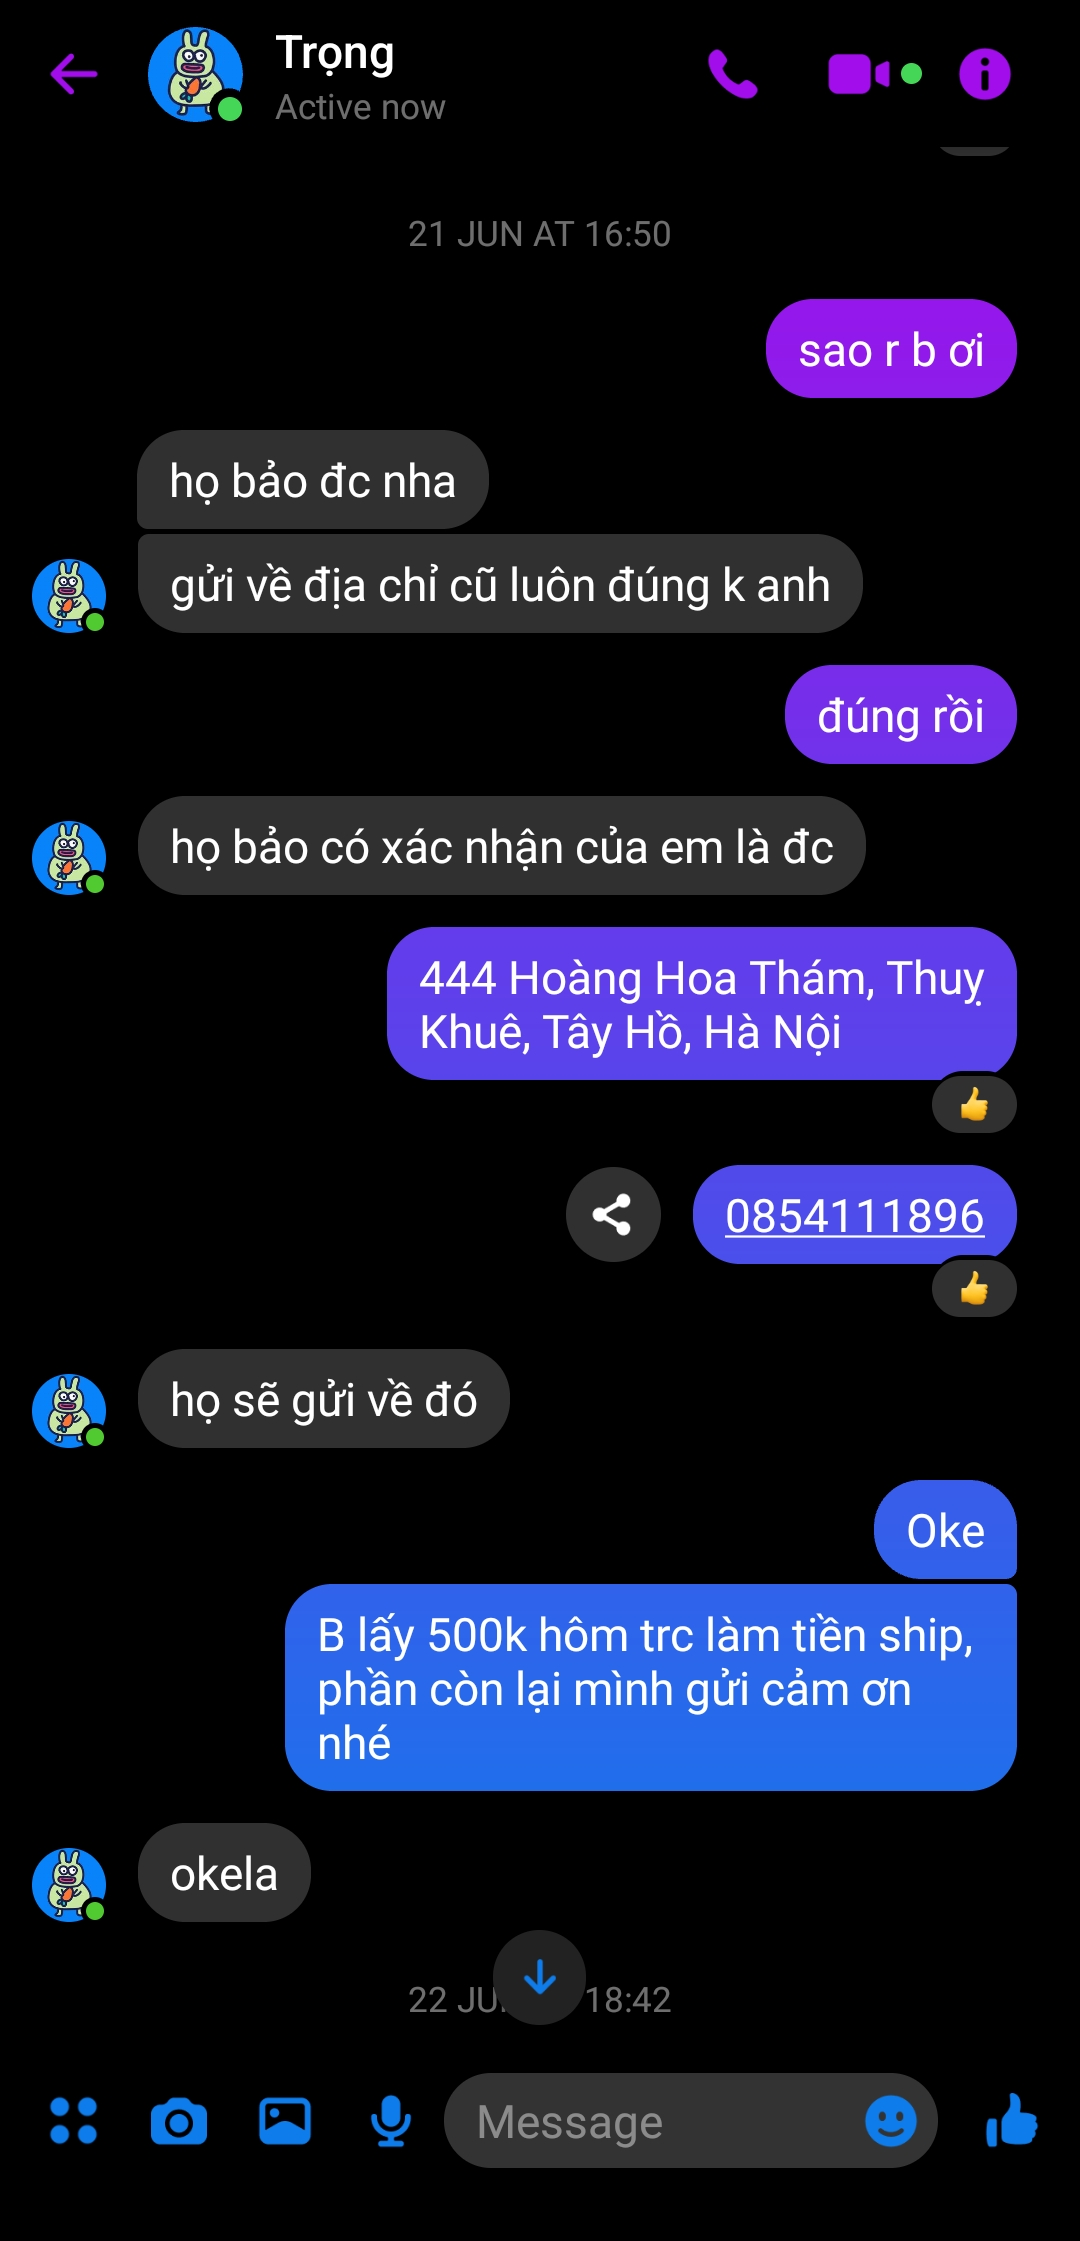
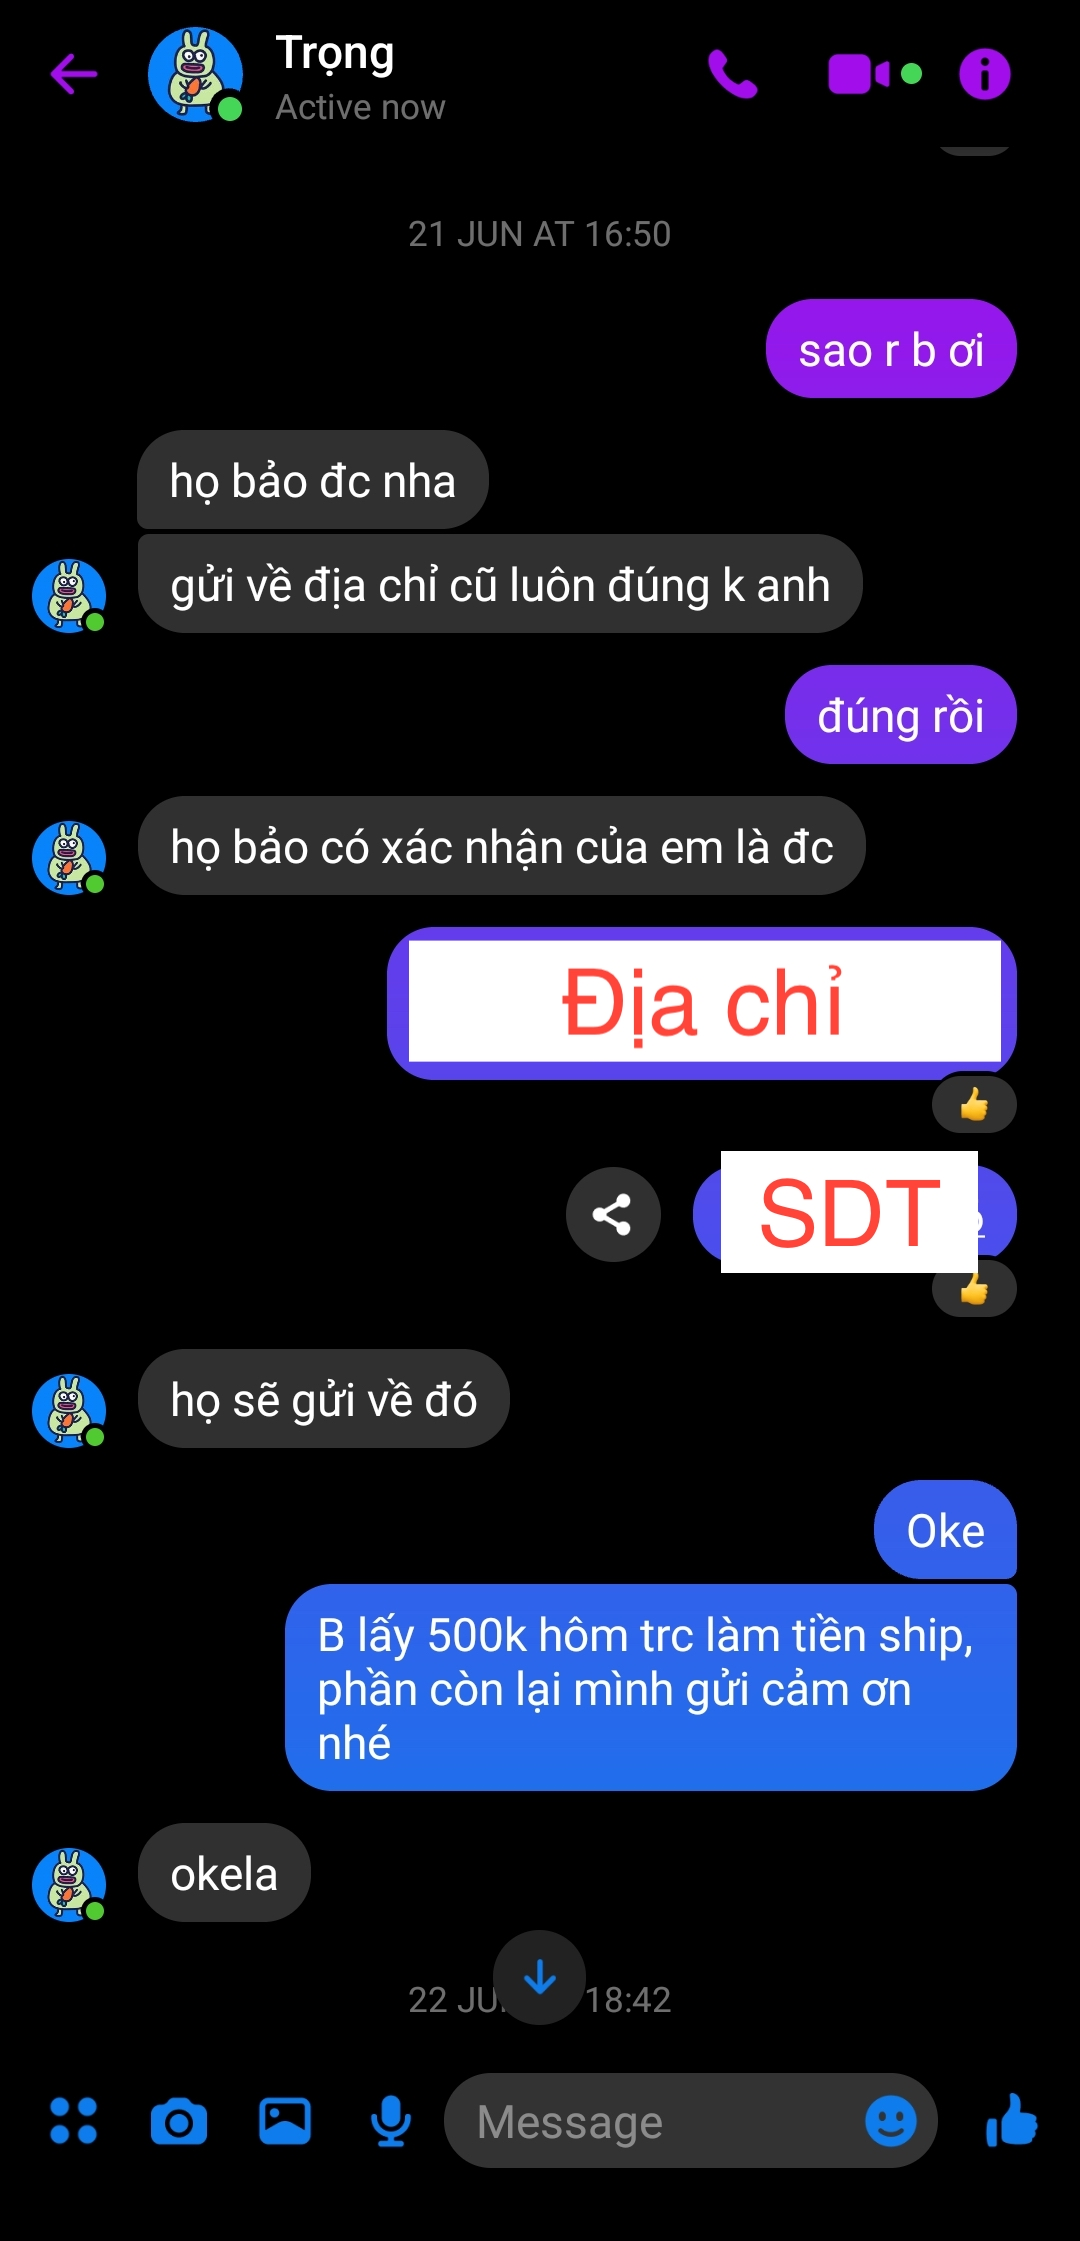
update read me

Changed region(s): [[0.3667, 0.4061, 0.9472, 0.5935]]

diff --git a/README.md b/README.md
@@ -1,20 +1,221 @@
-# Khởi đầu
+# Mechdrama Quốc Trọng
+
+---
+
+### Khởi đầu
+
+- Ngày 6/3/2023, đặt vấn đề với Quốc Trọng để CNC một con phím có sẵn bản vẽ
+- Quốc Trọng báo file có vấn đề và offer sửa lại để giảm giá thành
 
 <p float="left">
+
 <img src="assets/1.jpg" width="360">
+
 <img src="assets/2.jpg" width="360">
+
 <img src="assets/3.jpg" width="360">
+
 <img src="assets/4.jpg" width="360">
+
 <img src="assets/5.jpg" width="360">
+
 <img src="assets/6.jpg" width="360">
+
 <img src="assets/7.jpg" width="360">
+
+</p>
 
 # Báo giá
 
-<p float="left">
+### 1. Quốc Trọng báo giá 3.500.000đ
+
+Ngày 29/03/2023, mình và Trọng đã chốt được design và gửi bên xưởng Trung để báo giá tiền
+
 <img src="assets/8.jpg" width="360">
+
+### 2. Đã thanh toán cọc 2.000.000đ
+
 <img src="assets/9.jpg" width="360">
-<img src="assets/10.jpg" width="360">
-<img src="assets/11.jpg" width="360">
+
+### 3. Ngày 19/4/2023, thông tin: ĐẦU THÁNG 5 VỀ VIỆT NAM
+
+- Sau khoảng 3 tuần, mình hỏi lại Trọng về thời gian
+- Trọng báo đầu tháng 5 KIT VỀ VIỆT NAM
+
 <img src="assets/12.jpg" width="360">
+
+- 2/5/2023, thông tin: 10/5 có KIT
+
+<img src="assets/13.jpg" width="360">
+
+- 12/5/2023, delay: tuần sau có
+
+<img src="assets/13.jpg" width="360">
+
+### 3. 24/5/2023, thông tin: KIT ĐÃ VỀ TỚI VIỆT NAM
+
+- 18/5/2023, không rep
+- 24/5/2023, Trọng báo đã về đến Việt Nam, đã mang đi xử lý
+
+<img src="assets/13.jpg" width="360">
+
+### 4. 29-31/5/2023, không rep
+
+<img src="assets/20.jpg" width="360">
+
+### 5. 14:53 31/5/2023, chuyển nốt 1.500.000đ tiền case, Trọng bỗng nhiên rep tin nhắn lúc 15:24
+
+- Sau 3 ngày không có tin tức gì, chuyển nốt 1.500.000đ với hy vọng Trọng rep, ai ngờ Trọng rep thật.
+- Nhận được thông tin chưa đẩy case vào anode -> vẫn oke vui vẻ
+  <img src="assets/21.jpg" width="360">
+
+### 6. 14:53 31/5/2023, chuyển nốt 1.500.000đ tiền case, Trọng bỗng nhiên rep tin nhắn lúc 15:24
+
+- Sau 3 ngày không có tin tức gì, chuyển nốt 1.500.000đ với hy vọng Trọng rep, ai ngờ Trọng rep thật.
+- Nhận được thông tin chưa đẩy case vào anode -> vẫn oke vui vẻ
+  <img src="assets/21.jpg" width="360">
+
+### 7. Chuyển khoản thêm 500.000đ để Trọng nhờ nhà máy cho anode ké
+
+<p float="left">
+<img src="assets/24.jpg" width="360">
+<img src="assets/25.jpg" width="360">
 </p>
+
+### 8. Hỏi lại tình hình xưởng báo
+
+- Tối ngày 31/5 - 3/6: báo chưa anode được
+<p float="left">
+<img src="assets/26.jpg" width="360">
+<img src="assets/27.jpg" width="360">
+<img src="assets/28.jpg" width="360">
+<img src="assets/29.jpg" width="360">
+</p>
+
+- Ngày 6/6 và 8/6 hỏi lại:
+<p float="left">
+<img src="assets/30.jpg" width="360">
+</p>
+
+- Ngày 13/6: vẫn chưa được anode
+<p float="left">
+<img src="assets/34.jpg" width="360">
+<img src="assets/35.jpg" width="360">
+<img src="assets/36.jpg" width="360">
+</p>
+
+### 9. Thiết kế...
+
+- Ngày 14/6, phát hiện dấu hiệu lạ ở trên top, hỏi ra thì Trọng đã thêm hẳn 2 lỗ bên cạnh vì sợ "không cứng"
+<p float="left">
+  <img src="assets/37.jpg" width="360">
+  <img src="assets/38.jpg" width="360">
+  <img src="assets/39.jpg" width="360">
+  <img src="assets/40.jpg" width="360">
+</p>
+
+### 10. 16/6/2023: Thông tin: Thứ hai tuần sau (19/6/2023) sẽ được ship đến Trọng
+
+<p float="left">
+<img src="assets/43.jpg" width="360">
+<img src="assets/44.jpg" width="360">
+<img src="assets/45.jpg" width="360">
+</p>
+
+### 10. 19/6/2023: Tiếp tục delay, chưa gửi được hàng, và vẫn không có ảnh
+
+- Trọng báo chưa gửi được hàng, và cũng không có ảnh
+- Xưởng vẫn chưa gửi kit cho Trọng
+- Nhờ Trọng hỏi xưởng ship thẳng ra Hà Nội
+- Trọng báo ship được thẳng ra Hà Nội
+- Tặng Trọng 500k trước đây gửi, trừ tiền ship
+
+<p float="left">
+<img src="assets/46.jpg" width="360">
+<img src="assets/47.jpg" width="360">
+<img src="assets/48.jpg" width="360">
+<img src="assets/49.jpg" width="360">
+</p>
+
+### 11. 25/6/2023: Thông tin: 26/6/2023 gửi shipper. Đã có ảnh
+
+- Thông tin: 6h chiều 26/6/2023 shipper sẽ qua lấy, nhưng trên app Viettel không hề có đơn hàng -> chưa tạo đơn
+<p float="left">
+<img src="assets/51.jpg" width="360">
+<img src="assets/52.jpg" width="360">
+<img src="assets/53.jpg" width="360">
+<img src="assets/54.jpg" width="360">
+</p>
+
+### 11. 28/6/2023: Thông tin: 26/6/2023 gửi shipper. Đã có ảnh
+
+- Thông tin: Vẫn chưa được lấy hàng, đã đổi sang GHN nhưng không hề được thông báo
+<p float="left">
+<img src="assets/54.jpg" width="360">
+</p>
+
+### 12. 29/6/2023: Bất ngờ chưa, tạ đồng -> sắt
+
+- Hết đồng tự ý đổi sang sắt mà chưa hề thông báo với mình (thật ra cũng giống hệt trước đây)
+- 30/6/2023: Cuối cùng cũng có mã vận đơn
+<p float="left">
+<img src="assets/55.jpg" width="360">
+<img src="assets/56.jpg" width="360">
+</p>
+
+### 13. 3/7/2023: Nhận hàng với nỗi thất vọng
+
+- Nhận hàng, thấy ngay 2 vết cấn. Tiếc là mình quá nóng vội nên đã quên quay video unbox
+- Đổi ốc case từ M3 -> M2.5. Ốc titan mua trước để lắp kit này không dùng được luôn
+- Không có half plate. Plate chưa được anode
+- Không có đường chamfer
+- Vẫn dán cái sticker, không bóc ra nổi
+- Lỗ daughter board cấy ecu rất xấu
+- 2 lỗ ốc hai bên trông...
+
+#### Cấn
+
+<p float="left">
+<img src="assets/can1.jpg" >
+<img src="assets/can2.jpg" >
+</p>
+
+### Lỗi
+
+<p float="left">
+<img src="assets/halfplate.jpg" >
+<img src="assets/ecu.jpg" >
+<img src="assets/sticker.jpg" >
+</p>
+
+### 14. 5/7/2023 - 14/7/2023: Không thể liên lạc
+
+- Từ 5/7/2023 - 14/7/2023 không rep tin nhắn
+- 14/7/2023: Thông tin: Đã CNC xong tạ đồng và xử lý
+
+<p float="left">
+<img src="assets/63.jpg" >
+<img src="assets/64.jpg" >
+<img src="assets/65.jpg" >
+<img src="assets/66.jpg" >
+</p>
+
+### 14. Vẫn chưa nhận được tạ đồng
+
+- 31/7/2023: Tiếp tục quên gửi tạ đồng
+- 5/8/2023 - Hiện tại: Vẫn chưa rep tin nhắn, cũng không có đơn hàng nào được gửi
+
+<p float="left">
+<img src="assets/65.jpg" >
+<img src="assets/66.jpg" >
+</p>
+
+### Note
+- Tất cả những lần Quốc Trọng không rep tin nhắn mình, mình vẫn thấy Trọng online và đang đi comment dạo ở nhiều bài viết, cũng như đăng bán hàng
+
+
+## Tổng kết
+- Mình dù sao cũng cảm ơn Trọng đã sửa bản vẽ giúp mình.
+- Ở đây mình chủ yếu phốt về **THÁI ĐỘ LÀM VIỆC** của Trọng. 
+- Trong quá trình làm việc từ tháng 3, hứa hẹn đến khi đầu tháng 7 nhận kit, thứ mình hay được nhận được nhất là các lý do của Trọng để delay gửi hàng
+- Hiện giờ vẫn chưa lấy được tạ đồng và half plate. Nhưng mình cũng đã quá mệt mỏi với con kit này.
